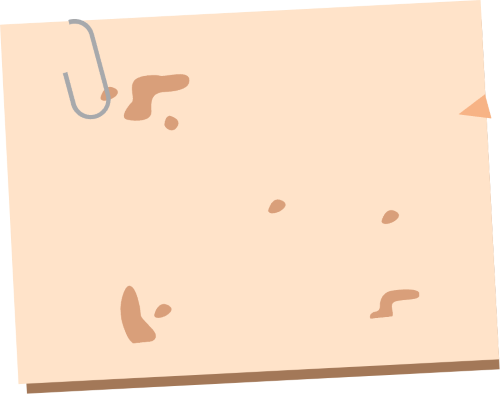
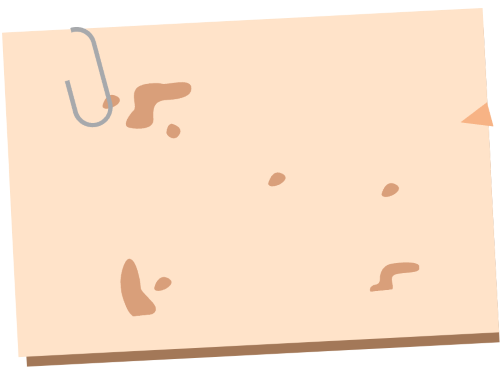
Politcal capital

diff --git a/Brackeys2026_2/Game/Components/PlayerInteraction.cs b/Brackeys2026_2/Game/Components/PlayerInteraction.cs
@@ -8,16 +8,19 @@ namespace Brackeys2026_2.Game.Components;
 public class PlayerInteraction : Component
 {
     private Player Player { get; set; }
+    public bool IsTurn { get; set; }
     
     private TextRenderer _playerDescription;
     private TextRenderer _jobDescription;
     private TextRenderer _secretFaction;
     private TextRenderer _goalText;
     private TextRenderer _actionText;
+    private TextRenderer _pcText;
     private Texture _agrarianTexture;
     private Texture _technocratTexture;
     private Texture _federalistTexture;
     private Texture _loyalistTexture;
+    private Texture _token;
     private Button _confirmActionButton;
     private readonly Button _nextTurnButton;
     private readonly List<GameObject> _playerCardsGameObjects = [];
@@ -25,13 +28,12 @@ public class PlayerInteraction : Component
     private readonly List<Faction> _selected = [];
 
     public PlayerInteraction(Button confirmButton, Button nextTurnButton, TextRenderer playerDescriptionText,
-        TextRenderer jobDescriptionText, TextRenderer secretText, TextRenderer goalText, TextRenderer actionText,
-        Texture loyalist, Texture agrarian, Texture technocrat, Texture federalist)
+        TextRenderer jobDescriptionText, TextRenderer secretText, TextRenderer goalText, TextRenderer actionText, TextRenderer pcText,
+        Texture loyalist, Texture agrarian, Texture technocrat, Texture federalist, Texture token)
     {
         _confirmActionButton = confirmButton;
         confirmButton.HasPressed += ConfirmAction;
         _nextTurnButton = nextTurnButton;
-        _nextTurnButton.HasPressed += FinishTurn;
         _playerDescription = playerDescriptionText;
         _jobDescription = jobDescriptionText;
         _secretFaction = secretText;
@@ -41,6 +43,8 @@ public class PlayerInteraction : Component
         _technocratTexture = technocrat;
         _federalistTexture = federalist;
         _loyalistTexture = loyalist;
+        _pcText = pcText;
+        _token = token;
     }
     
     public void UpdateTextUi(Player thisPlayer)
@@ -58,8 +62,9 @@ public class PlayerInteraction : Component
         
     }
     
-    private void FinishTurn()
+    public void FinishPlayerTurn()
     {
+        if (!Player.IsTurn) return;
         if (_selected.Count == 2)
         {
             ToggleNextTurnEnabled();
@@ -89,14 +94,33 @@ public class PlayerInteraction : Component
             var playerCard = _playerCards[i];
             playerCard.RemoveTween(i * .1f);
         }
-
+        
         Player.EndPlayerTurn(_selected[0], _selected[1]);
+        IsTurn = false;
     }
 
     public void StartOfNewPlayerTurn(List<Faction> gameManagerThisTurnsCards)
     {
+        IsTurn = true;
         ToggleNextTurnDisabled();
         ShowCards(gameManagerThisTurnsCards);
+    }
+
+    public void IncreasePoliticalCapital(int amount)
+    {
+        _pcText.Set($"Political Capital: {Player.PoliticalCapital}");
+
+        for (var i = 0; i < amount; i++)
+        {
+            _ = new GameObject(650, 190, GameObject, [new SpriteRenderer(_token), new PoliticalCapitalToken(i * .1f)]);    
+        }
+        
+        
+    }
+    
+    public void DecreasePoliticalCapital(int amount)
+    {
+        _pcText.Set($"Political Capital: {Player.PoliticalCapital}");
     }
 
     private void ShowCards(List<Faction> thisTurn)
@@ -181,4 +205,6 @@ public class PlayerInteraction : Component
         _nextTurnButton.EnablePresses();
         _confirmActionButton.DisablePresses();
     }
+
+    
 }

diff --git a/Brackeys2026_2/Game/Classes/Minister.cs b/Brackeys2026_2/Game/Classes/Minister.cs
@@ -11,6 +11,8 @@ public class Minister : IHasTurn
     public Texture Face { get; set; }
     public bool IsPlayer { get; set; }
     public bool IsTurn { get; set; }
+    
+    public int PoliticalCapital { get; set; }
 
     public readonly Dictionary<Minister, Suspicion> Suspicions = new();
     public Perception Perception { get; set; } = new();
@@ -128,6 +130,11 @@ public class Minister : IHasTurn
     {
         UpdatePerceptions();
         Role.PerformAction(this);
+        EndAiTurn();
+    }
+
+    private void EndAiTurn()
+    {
         if (Role.RoleType is RoleType.President)
         {
             var card = SelectOneOfThreeCards();
@@ -136,14 +143,14 @@ public class Minister : IHasTurn
         else
         {
             var (a, b) = SelectTwoOfThreeCards();
-            var card = President.SelectOneOfTwoCards(a, b);
+            var card = President.SelectOneOfTwoCards(this, a, b);
             GameManager.EndTurn(card);
         }
     }
 
     public void EndPlayerTurn(Faction cardA, Faction cardB)
     {
-        var card = President.SelectOneOfTwoCards(cardA, cardB);
+        var card = President.SelectOneOfTwoCards(this, cardA, cardB);
         GameManager.EndTurn(card);
     }
 
@@ -197,9 +204,15 @@ public class Minister : IHasTurn
         return (chosenCards[0], chosenCards[1]);
     }
 
-    public Faction SelectOneOfTwoCards(Faction a, Faction b)
+    private Faction SelectOneOfTwoCards(Minister minister, Faction a, Faction b)
     {
-        var chosenCard = a;
+        // from the predisent's point of view
+        if (Suspicions[minister].Trust > 1f)
+        {
+            var amount = int.Clamp((int)Suspicions[minister].Trust, 1, 10);
+            amount += 1;
+            minister.IncreasePolitcalCapital(amount);
+        }
         var cards = new List<Faction>() { a, b };
         foreach (var faction in cards)
         {
@@ -218,8 +231,34 @@ public class Minister : IHasTurn
             }
             
         }
+
+        if (a == minister.Faction)
+        {
+            minister.IncreasePolitcalCapital(10);
+        }
         
-        return chosenCard;
+        return a;
+    }
+
+    private void IncreasePolitcalCapital(int amount)
+    {
+        PoliticalCapital += amount;
+        Console.WriteLine($"Poltical capital of {Name} increased by {amount}");
+        if (IsPlayer)
+        {
+            var player = this as Player;
+            player?.JustIncreasedPoliticalCapital(amount);
+        }
+    }
+
+    private void DecreasePoliticalCapital(int amount)
+    {
+        PoliticalCapital -= amount;
+        if (IsPlayer)
+        {
+            var player = this as Player;
+            player?.JustDecreasedPoliticalCapital(amount);
+        }
     }
 
     private bool IsPerceivedAThreat()

diff --git a/Brackeys2026_2/Game/Game1.cs b/Brackeys2026_2/Game/Game1.cs
@@ -46,6 +46,8 @@ public class Game1 : Core
         var loyalist = new Texture("Game/Assets/loyalistPolicy.png");
         var agrarian = new Texture("Game/Assets/agrarianPolicy.png");
         var technocrat = new Texture("Game/Assets/technocratPolicy.png");
+        var pc = new Texture("Game/Assets/pC.png");
+        var fist = new Texture("Game/Assets/fist.png");
 
         const int leftFolderHeight = 850;
         var black = Window.Black;
@@ -118,14 +120,18 @@ public class Game1 : Core
             _ = new GameObject(padding, currentX += gap, rightFolder, [
                 new TextRenderer(boldFont, black, "Action:", 200)
             ]){ Transform = { Pivot = (0, 0) } };
+            var pcText = new TextRenderer(boldFontSmaller, "Political Capital: 0", 300);
+            _ = new GameObject(padding, currentX += gap, rightFolder, [
+                pcText,
+            ]) { Transform = { Pivot = (0, 0)} };
             var actionText = new TextRenderer(oldFont, black, "Bribe the target, reducing their suspicion.", 500);
             _ = new GameObject(padding, currentX += gap, rightFolder, [
                 actionText
             ]) { Transform = { Pivot = (0, 0) } };
             
-            var stickyNote = new GameObject(padding, currentX += gap, rightFolder, [
-                new SpriteRenderer(note),
-            ]) { Transform = { Pivot = (0, 0) } };
+            // var stickyNote = new GameObject(padding, currentX += gap, rightFolder, [
+            //     new SpriteRenderer(note),
+            // ]) { Transform = { Pivot = (0, 0) } };
 
             var confirmButton = new Button(button, buttonDown, buttonDisabled, new Text("Confirm Action", boldFontSmaller, 300));
             var confirmAction = new GameObject(padding + 50 + button.Width *.5f, currentX + 430, rightFolder, [
@@ -138,7 +144,8 @@ public class Game1 : Core
             ]);
             
         // logic
-        var player = new PlayerInteraction(confirmButton, nextTurnButton, playerDescriptionText, jobDescriptionText, secretText, goalText, actionText, loyalist, agrarian, technocrat, federalist);
+        var player = new PlayerInteraction(confirmButton, nextTurnButton, playerDescriptionText, jobDescriptionText,
+            secretText, goalText, actionText, pcText, loyalist, agrarian, technocrat, federalist, pc);
         var playerGameObject = new GameObject(0, 0, null, [
             player
         ]);

diff --git a/Brackeys2026_2/Game/Components/GameManager.cs b/Brackeys2026_2/Game/Components/GameManager.cs
@@ -155,22 +155,30 @@ public class GameManager : Component
     
     private void NextTurn()
     {
-        if (_isInTurn) return;
-        var positionInList = CurrentMinisters.FindIndex(a => a == _currentTurn);
-        var nextMinisterTurn = positionInList += 1;
-        if (nextMinisterTurn > NumberOfMinisters - 1)
+        if (_player.IsTurn)
         {
-            nextMinisterTurn = 0;
+            _player.FinishPlayerTurn();
         }
+        else
+        {
+            if (_isInTurn) return;
+            var positionInList = CurrentMinisters.FindIndex(a => a == _currentTurn);
+            var nextMinisterTurn = positionInList += 1;
+            if (nextMinisterTurn > NumberOfMinisters - 1)
+            {
+                nextMinisterTurn = 0;
+            }
 
-        _currentTurn.IsTurn = false;
-        _currentTurn = CurrentMinisters[nextMinisterTurn];
-        _currentTurn.IsTurn = true;
+            _currentTurn.IsTurn = false;
+            _currentTurn = CurrentMinisters[nextMinisterTurn];
+            _currentTurn.IsTurn = true;
         
-        // new turn
-        _isInTurn = true;
-        GenerateFirstOfTurnCards();
-        _currentTurn.BeginTurn();
+            // new turn
+            _isInTurn = true;
+            GenerateFirstOfTurnCards();
+            _currentTurn.BeginTurn();
+        }
+        
     }
 
     public void EndTurn(Faction faction)
@@ -179,6 +187,7 @@ public class GameManager : Component
         foreach (var minister in CurrentMinisters) minister.CalculateSuspicions();
         PreviouslyImplementedPolicy = (_currentTurn, faction);
         Turn++;
+        
         _isInTurn = false;
     }
 

diff --git a/Brackeys2026_2/Game/Classes/Player.cs b/Brackeys2026_2/Game/Classes/Player.cs
@@ -6,15 +6,27 @@ namespace Brackeys2026_2.Game.Classes;
 public class Player : Minister
 {
     private PlayerInteraction _player;
-    
-    public Player(Role role, Texture face, PlayerInteraction player, GameManager gameManager) : base(role, face, gameManager)
+
+    public Player(Role role, Texture face, PlayerInteraction player, GameManager gameManager) : base(role, face,
+        gameManager)
     {
         _player = player;
     }
-    
+
     public override void BeginTurn()
     {
         Console.WriteLine("players turn");
         _player.StartOfNewPlayerTurn(GameManager.ThisTurnsCards);
     }
+
+    public void JustIncreasedPoliticalCapital(int amount)
+    {
+        _player.IncreasePoliticalCapital(amount);
+    }
+    
+    public void JustDecreasedPoliticalCapital(int amount)
+    {
+        _player.DecreasePoliticalCapital(amount);
+    }
+
 }

diff --git a/Brackeys2026_2/Game/Components/PoliticalCapitalToken.cs b/Brackeys2026_2/Game/Components/PoliticalCapitalToken.cs
@@ -1,0 +1,14 @@
+using Brackeys2026_2.Engine.Components;
+using Brackeys2026_2.Engine.System.Tweening;
+
+namespace Brackeys2026_2.Game.Components;
+
+public class PoliticalCapitalToken(float delay) : Component
+{
+    protected override void OnInitialise()
+    {
+        Tweener.MoveXTo(GameObject.Transform, 1500, 0.8f, EaseFunctions.OutQuart, delay, true);
+        Tweener.MoveYTo(GameObject.Transform, 475, 0.8f, EaseFunctions.OutQuart, delay, true);
+        Tweener.ScaleTo(GameObject.Transform, 0.1f, 0.8f, EaseFunctions.OutQuart, delay, true);
+    }
+}

diff --git a/Brackeys2026_2/Game/Components/PlayerCard.cs b/Brackeys2026_2/Game/Components/PlayerCard.cs
@@ -83,8 +83,8 @@ public class PlayerCard : Component
     {
         if (IsSelected)
         {
-            Tweener.MoveYTo(GameObject.Transform, 190, 0.5f, EaseFunctions.OutQuart, delay, true);
             Tweener.MoveXTo(GameObject.Transform, 650, 0.5f, EaseFunctions.OutQuart, delay, true);
+            Tweener.MoveYTo(GameObject.Transform, 190, 0.5f, EaseFunctions.OutQuart, delay, true);
             Tweener.ScaleTo(GameObject.Transform, 0.1f, 0.5f, EaseFunctions.OutQuart, delay, true);
         }
         else
